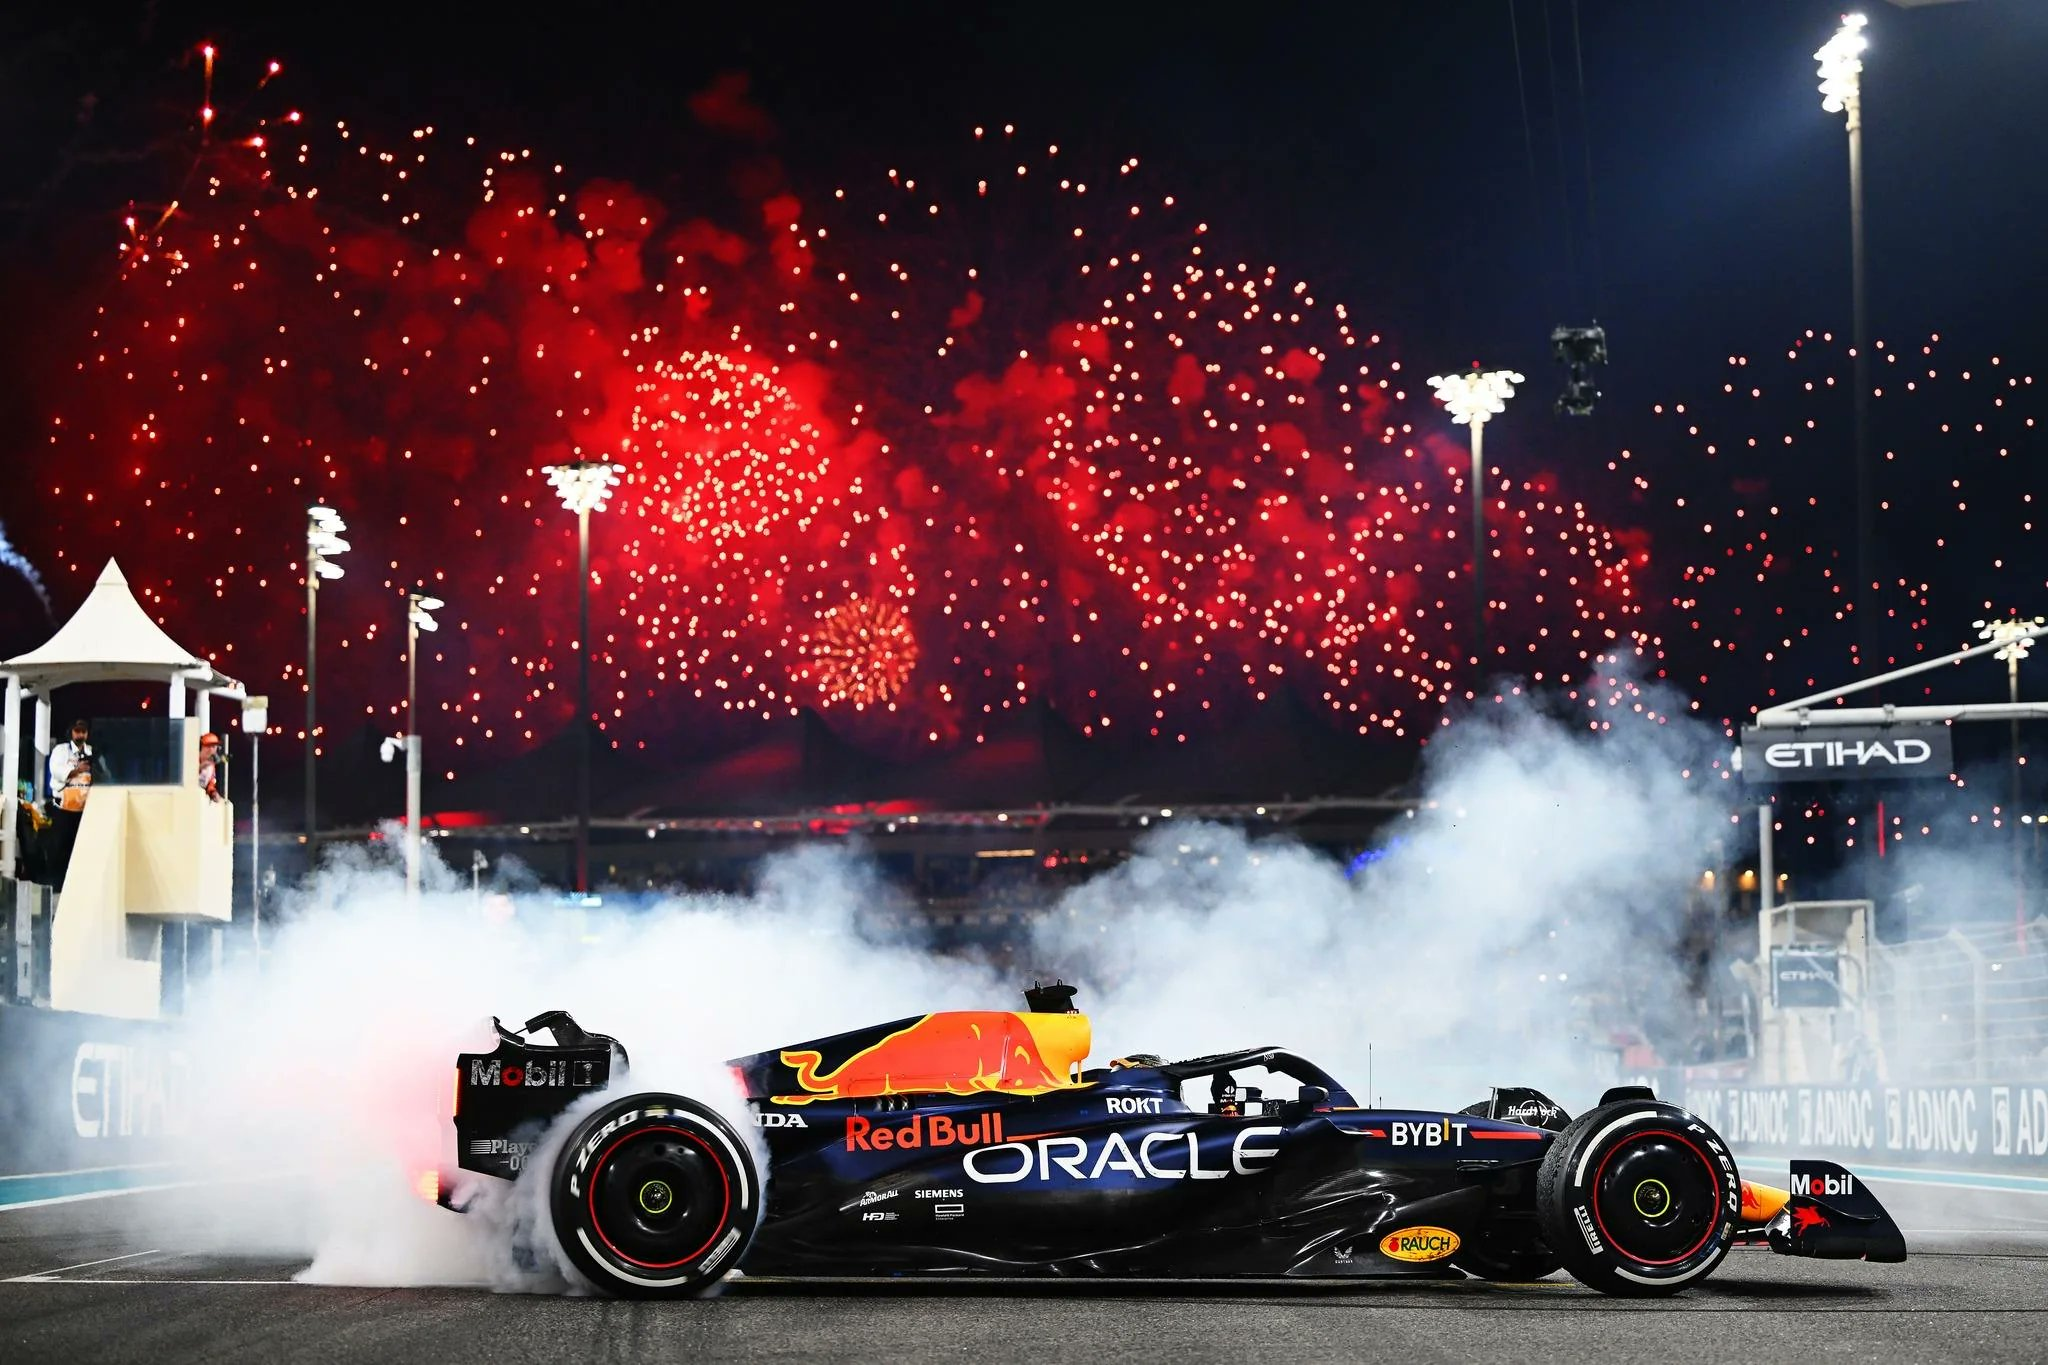
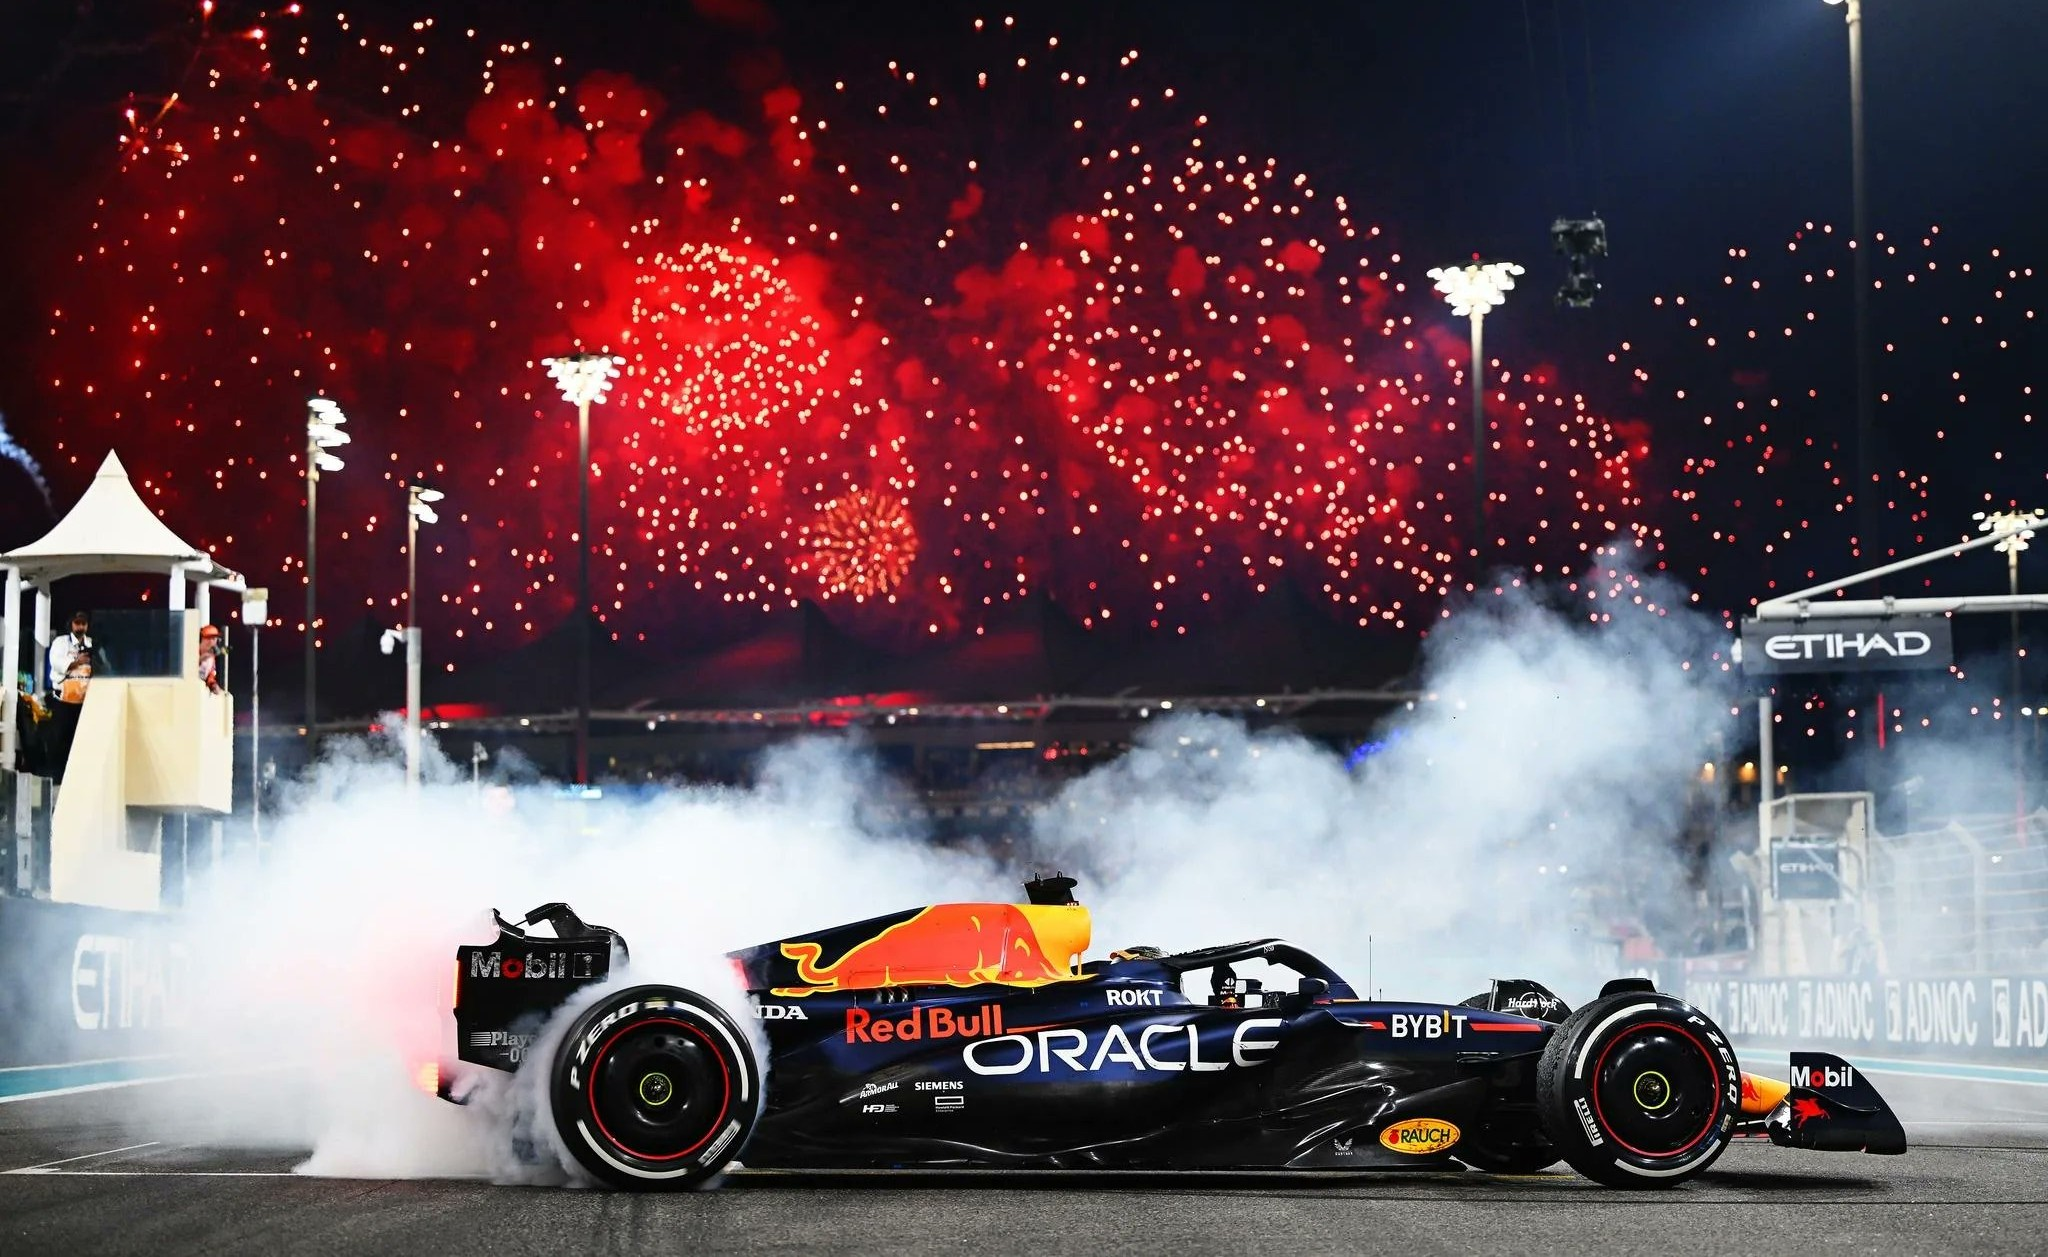
Fixed up the Featured Section., Changed Background Color, Added 1 Image, Spotlight Section Now and Added a Bottom Mirrored Row, Made the Spotight Gaps More Consistent.

diff --git a/heropage.css b/heropage.css
@@ -48,6 +48,36 @@
     box-sizing: border-box;
 }
 
+body {
+    background-color: #060606;
+}
+
+/* Debug: Vertical Center Line */
+body::before {
+    content: '';
+    position: fixed;
+    top: 0;
+    bottom: 0;
+    left: 50%;
+    width: 2px;
+    background-color: red;
+    z-index: 9999;
+    pointer-events: none;
+}
+
+/* Debug: Horizontal Center Line */
+body::after {
+    content: '';
+    position: fixed;
+    top: 50%;
+    left: 0;
+    right: 0;
+    height: 2px;
+    background-color: red;
+    z-index: 9999;
+    pointer-events: none;
+}
+
 /* Top Section (Nav Bar) */
 .header {
     background-color: #fff;
@@ -135,17 +165,48 @@ li {
 .hero-section {
     display: grid;
     grid-template-columns: 2fr 1fr;
+    grid-template-rows: 1fr;
     gap: 1.5rem;
     margin-bottom: 6.5rem;
     margin-top: 3.0rem;
-    min-height: 610px;
+    height: 610px;
+    align-items: stretch;
+}
+
+.hero-left {
+    min-height: 0;
+    height: 100%;
+    display: flex;
+    overflow: hidden;
 }
 
 .hero-left .hero-pic {
     width: 100%;
     height: 100%;
     background-color: #ddd;
-    border-radius: 8px;
+    border-radius: 10px;
+    box-shadow: 0px 2px 4px rgba(0,0,0,0.1);
+    overflow: hidden;
+    flex-shrink: 0;
+    position: relative;
+}
+
+.hero-left .hero-pic::after {
+    content: '';
+    position: absolute;
+    inset: 0;
+    border-radius: 10px;
+    background: radial-gradient(circle, transparent 40%, rgba(0,0,0,0.7));
+    pointer-events: none;
+    z-index: 1;
+}
+
+.hero-pic img {
+    width: 100%;
+    height: 100%;
+    object-fit: cover;
+    object-position: center;
+    display: block;
 }
 
 .hero-right {
@@ -199,6 +260,10 @@ li {
     margin-bottom: 3rem;
 }
 
+.spotlight-section + .spotlight-section {
+    margin-top: -1.5rem;
+}
+
 .section-title {
     font-size: 2rem;
     font-weight: bold;
@@ -210,68 +275,103 @@ li {
 .spotlight-grid {
     display: grid;
     grid-template-columns: 2fr 1fr 1fr;
-    grid-template-rows: 1fr 1fr;
-    gap: 1rem;
-    height: 800px;
+    align-items: start;
 }
 
-/* Top Row */
+.spotlight-grid-flipped {
+    grid-template-columns: 1fr 1fr 2fr;
+}
+
 .spotlight-left {
-    grid-column: 1;
-    grid-row: 1;
     display: flex;
     flex-direction: column;
-    gap: 1rem;
+    padding-right: 0.75rem;
 }
 
 .spotlight-middle {
-    grid-column: 2 / 4;
-    grid-row: 1;
-    display: grid;
-    grid-template-columns: 1fr 1fr;
-    gap: 1rem;
-}
-
-/* Bottom Row */
-.spotlight-right {
-    grid-column: 1 / 4;
-    grid-row: 2;
     display: flex;
     flex-direction: column;
-    gap: 1rem;
+    height: 500px;
+    padding-left: 0.75rem;
+}
+
+.spotlight-grid-flipped .spotlight-middle {
+    padding-right: 0.75rem;
+}
+
+.spotlight-right {
+    display: flex;
+    flex-direction: column;
+    height: 500px;
+    padding-left: 1.5rem;
+}
+
+.spotlight-grid-flipped .spotlight-right {
+    padding-left: 0.75rem;
 }
 
 .spotlight-large-image {
     width: 100%;
-    height: 89%;
+    height: 500px;
     background-color: #ddd;
     border-radius: 8px;
+    box-shadow: 0px 2px 4px rgba(0,0,0,0.1);
+    position: relative;
+    flex-shrink: 0;
 }
 
 .spotlight-small-image {
     width: 100%;
-    height: 100%;
+    height: 250px;
     background-color: #ddd;
-    border-radius: 8px;
+    border-radius: 8px 8px 0 0;
+    flex-shrink: 0;
 }
 
-.spotlight-item h4 {
-    font-size: 0.9rem;
-    color: #333;
-    margin: 0;
+.spotlight-left-text {
+    position: absolute;
+    bottom: 0;
+    left: 0;
+    right: 0;
+    padding: 1.5rem;
+    display: flex;
+    flex-direction: column;
+    gap: 0.5rem;
 }
 
-.spotlight-left h3,
-.spotlight-right h3 {
+.spotlight-text {
+    height: 250px;
+    background-color: #fff;
+    padding: 1rem;
+    display: flex;
+    flex-direction: column;
+    gap: 0.5rem;
+    justify-content: flex-start;
+    border-radius: 0 0 8px 8px;
+    box-shadow: 0px 4px 4px rgba(0,0,0,0.1);
+}
+
+.spotlight-left-text h3 {
     font-size: 1.2rem;
+    color: #fff;
+    margin: 0;
+}
+
+.spotlight-left-text p {
+    color: #fff;
+    font-size: 0.9rem;
+    margin: 0;
+}
+
+.spotlight-text h4 {
+    font-size: 0.9rem;
     color: #333;
     margin: 0;
 }
 
-.spotlight-left p,
-.spotlight-right p {
+.spotlight-text p {
     color: #666;
-    font-size: 0.9rem;
+    font-size: 0.85rem;
     margin: 0;
 }
 

diff --git a/heropage.html b/heropage.html
@@ -41,7 +41,7 @@
          <section class="hero-section">
             <div class="hero-left">
                 <div class="hero-pic">
-                    <!-- Will add image here later when doing css -->
+                    <img src="images/fireworks-abudhabi.jpeg" alt="fireworks">
                 </div>
             </div>
 
@@ -92,25 +92,61 @@
             <div class="spotlight-grid">
 
                 <div class="spotlight-left">
-                    <div class="spotlight-large-image"></div>
+                    <div class="spotlight-large-image">
+                        <div class="spotlight-left-text">
+                            <h3>Spotlight Title</h3>
+                            <p>Spotlight description text</p>
+                        </div>
+                    </div>
                 </div>
 
                 <div class="spotlight-middle">
-                    <div class="spotlight-item">
-                        <div class="spotlight-small-image"></div>
+                    <div class="spotlight-small-image"></div>
+                    <div class="spotlight-text">
                         <h4>Placeholder 1</h4>
-                    </div>
-
-                    <div class="spotlight-item">
-                        <div class="spotlight-small-image"></div>
-                        <h4>Placeholder 2</h4>
+                        <p>Description text</p>
                     </div>
                 </div>
 
                 <div class="spotlight-right">
-                    <div class="spotlight-item"></div>
-                    <h4>Right Side Placeholder 3</h4>
-                    <p>Right Side Description Placeholder</p>
+                    <div class="spotlight-small-image"></div>
+                    <div class="spotlight-text">
+                        <h4>Placeholder 2</h4>
+                        <p>Description text</p>
+                    </div>
+                </div>
+
+            </div>
+        </section>
+
+        <!-- Spotlight Section (Flipped) -->
+        <section class="spotlight-section">
+
+            <div class="spotlight-grid spotlight-grid-flipped">
+
+                <div class="spotlight-left">
+                    <div class="spotlight-small-image"></div>
+                    <div class="spotlight-text">
+                        <h4>Placeholder 3</h4>
+                        <p>Description text</p>
+                    </div>
+                </div>
+
+                <div class="spotlight-middle">
+                    <div class="spotlight-small-image"></div>
+                    <div class="spotlight-text">
+                        <h4>Placeholder 4</h4>
+                        <p>Description text</p>
+                    </div>
+                </div>
+
+                <div class="spotlight-right">
+                    <div class="spotlight-large-image">
+                        <div class="spotlight-left-text">
+                            <h3>Spotlight Title</h3>
+                            <p>Spotlight description text</p>
+                        </div>
+                    </div>
                 </div>
 
             </div>
